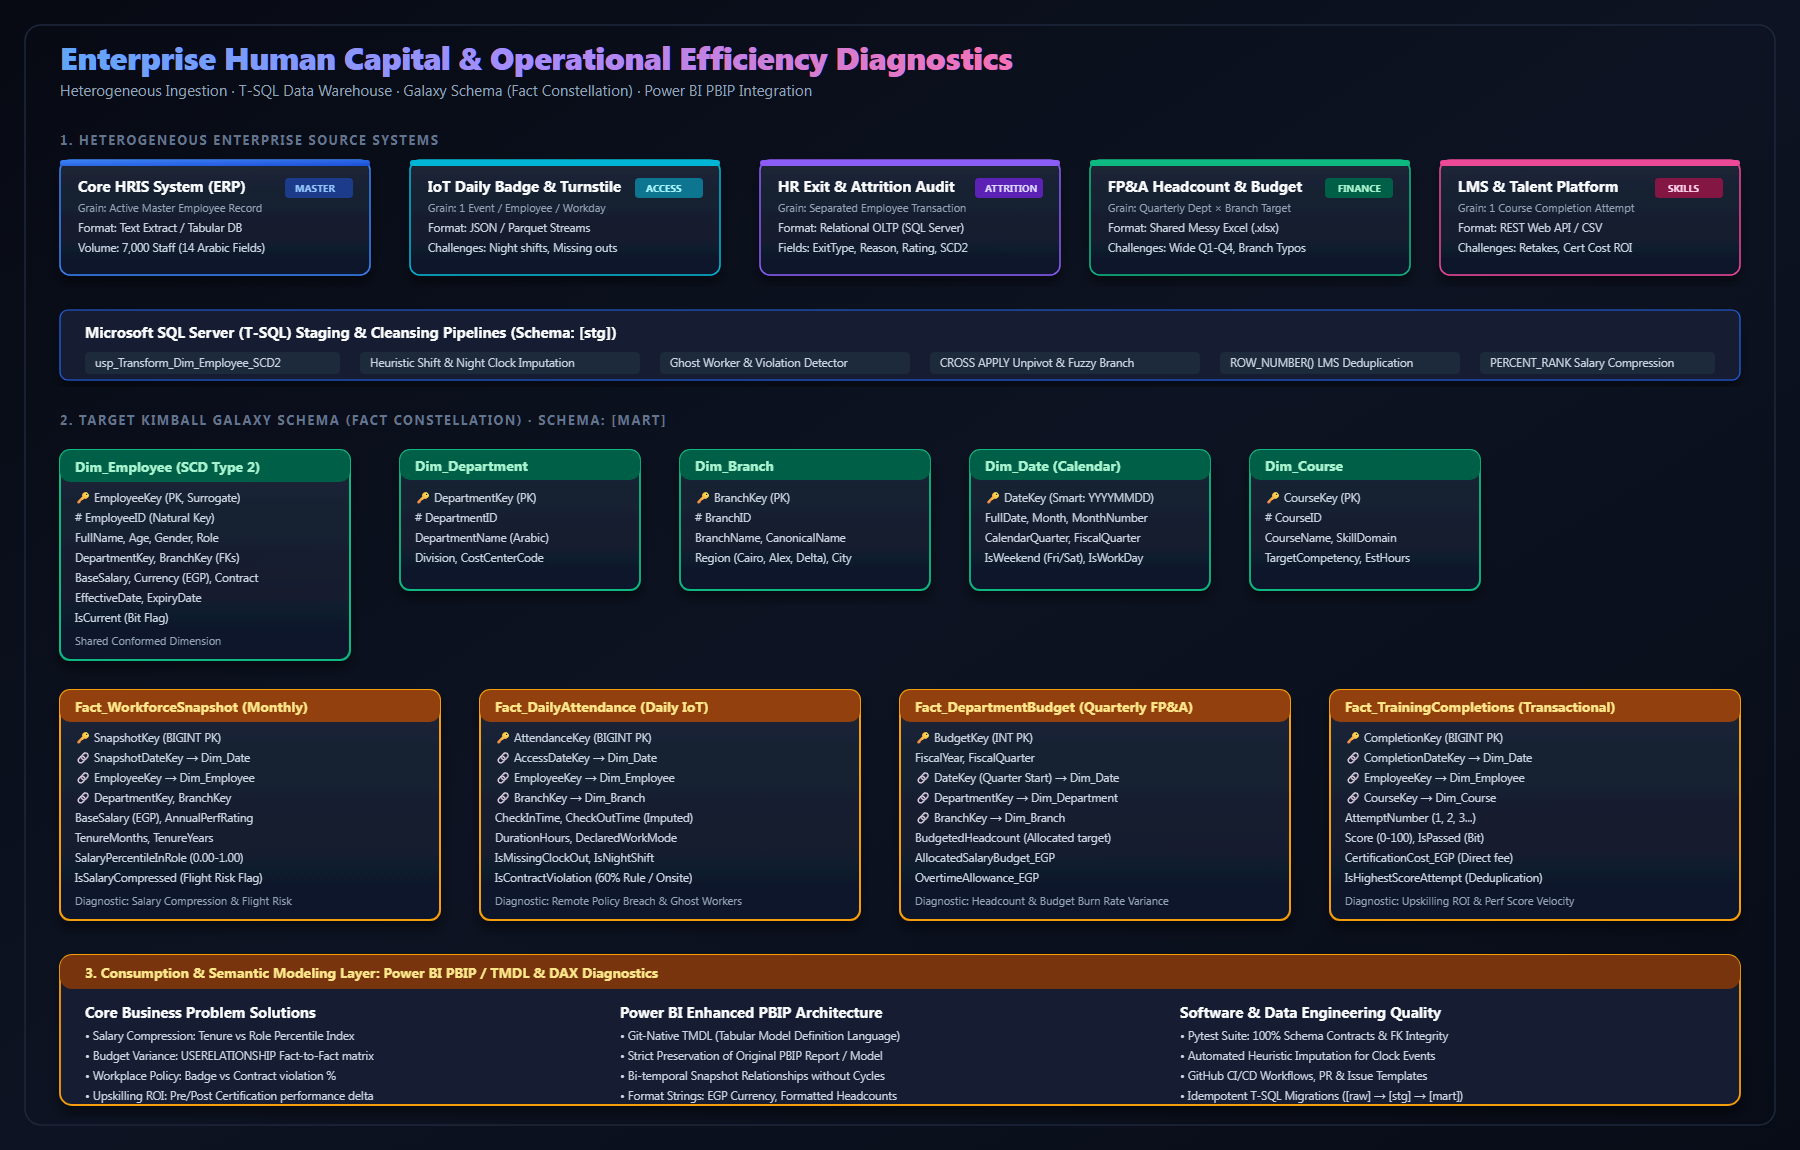
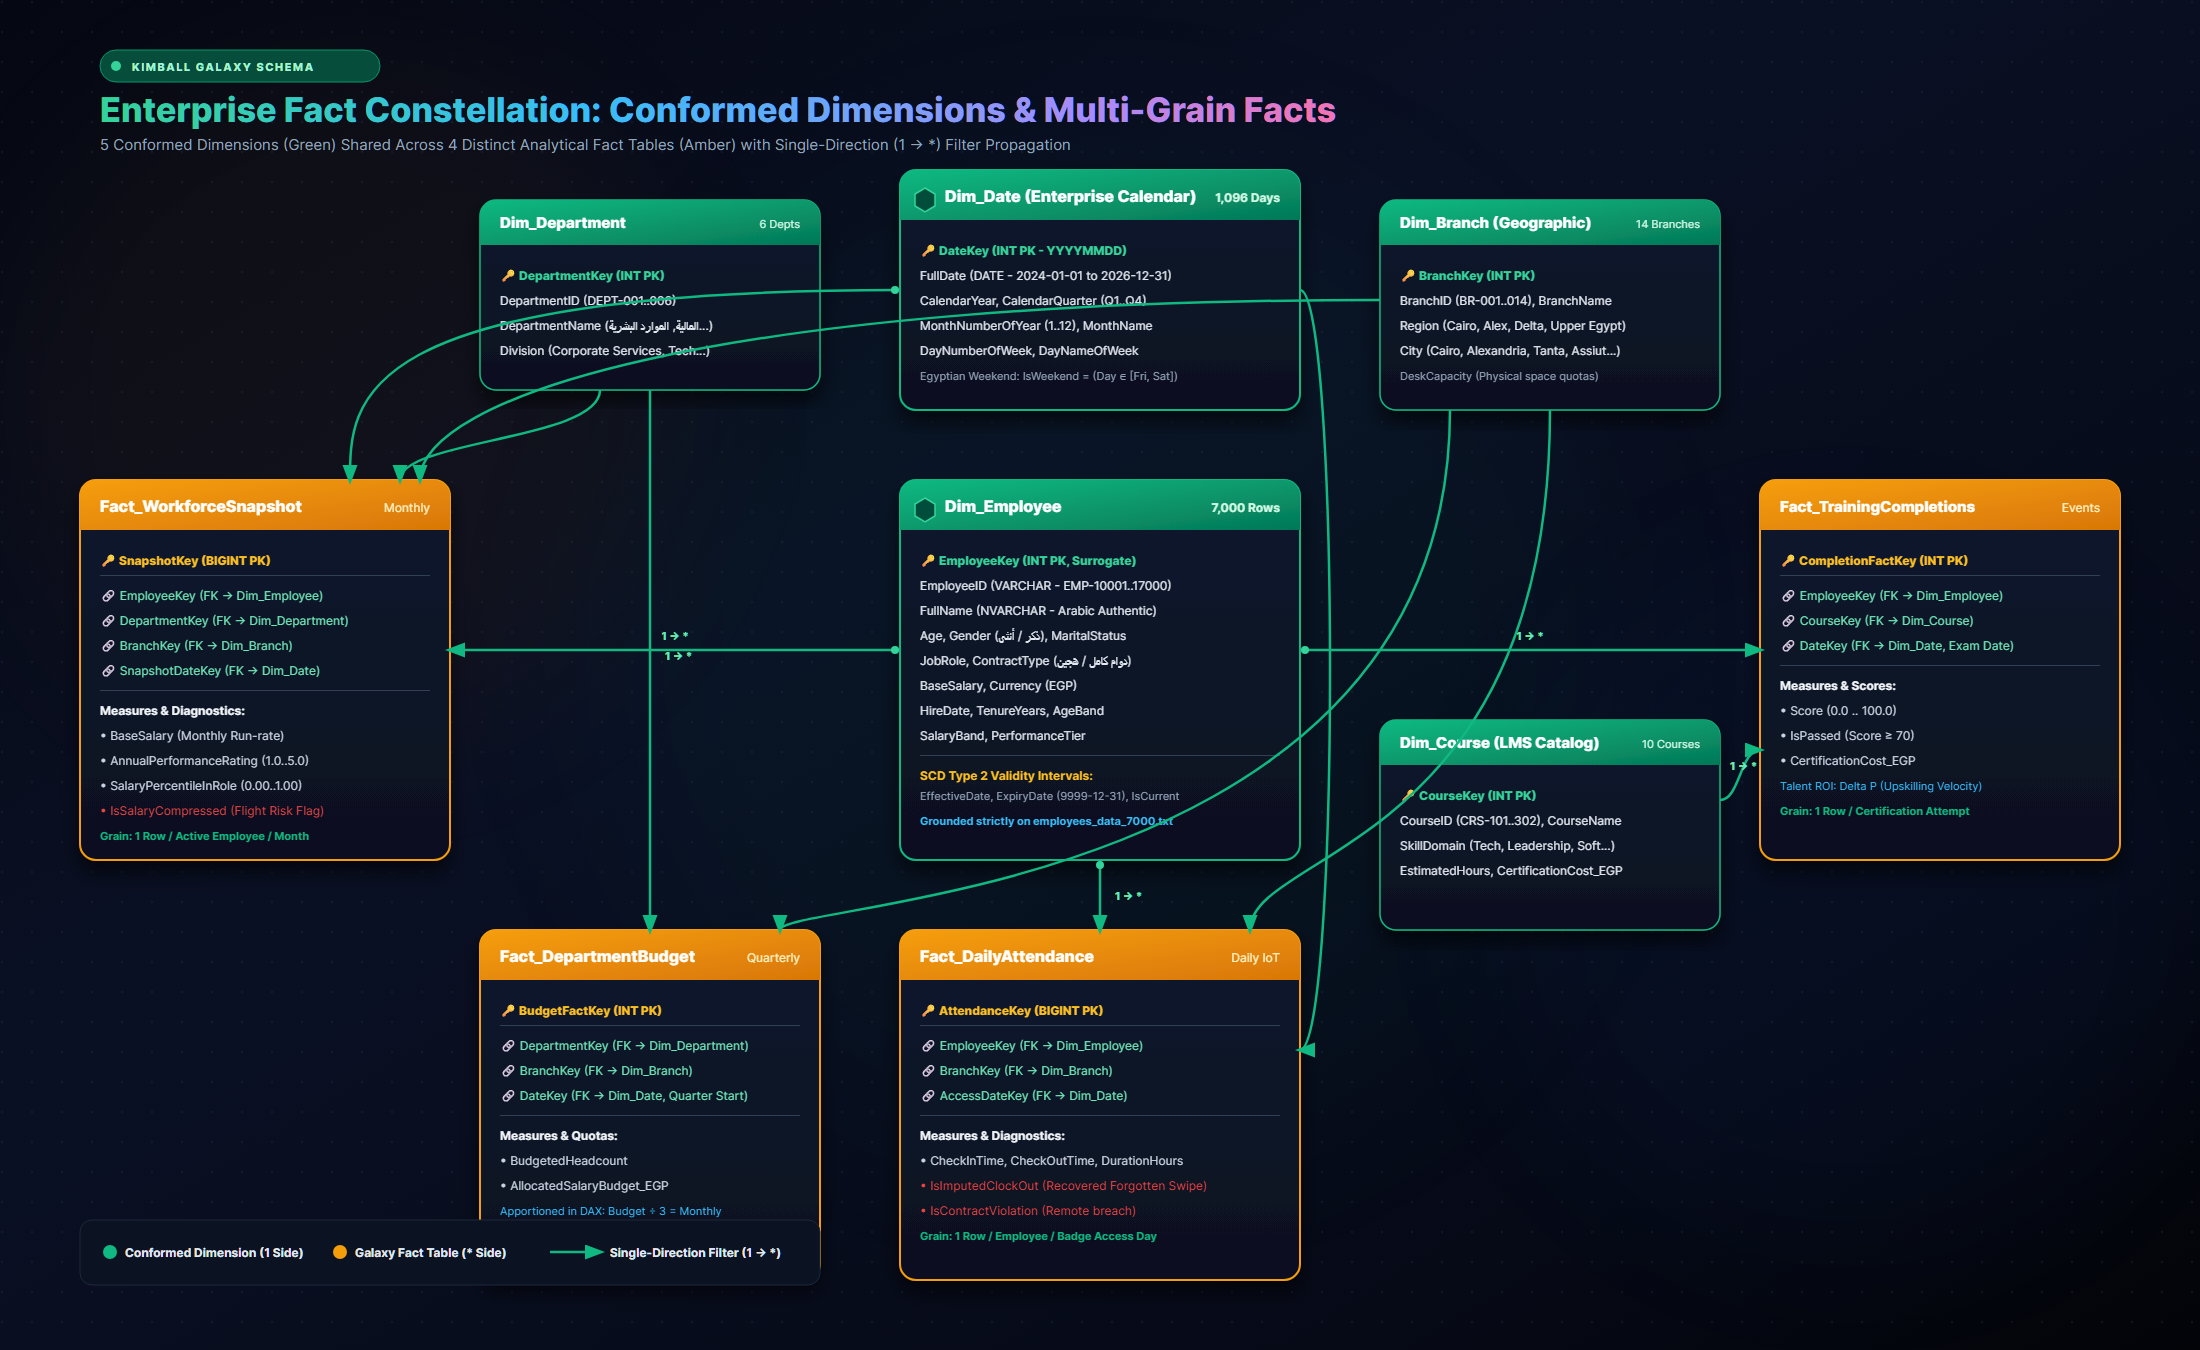
docs: align Dim_Branch conditional region rules with Power Query table values and add high-res PNG architecture assets

diff --git a/scripts/utils/convert_svg_to_png.py b/scripts/utils/convert_svg_to_png.py
@@ -1,0 +1,87 @@
+"""
+Utility: convert_svg_to_png.py
+Converts project SVG architecture diagrams to ultra high-quality PNGs
+using Chromium/Edge headless rendering engine with CairoSVG fallback.
+"""
+
+import os
+import shutil
+import subprocess
+import sys
+from pathlib import Path
+from PIL import Image
+
+PROJECT_ROOT = Path(__file__).resolve().parent.parent.parent
+DOCS_ASSETS = PROJECT_ROOT / "docs" / "assets"
+ARTIFACTS_DIR = Path(r"C:\Users\HELAL\.gemini\antigravity-ide\brain\caa94f56-4f88-4095-bb6c-cf7177e6c9bb")
+
+EDGE_PATHS = [
+    r"C:\Program Files (x86)\Microsoft\Edge\Application\msedge.exe",
+    r"C:\Program Files\Microsoft\Edge\Application\msedge.exe"
+]
+
+def get_browser_exe():
+    for p in EDGE_PATHS:
+        if os.path.exists(p):
+            return p
+    return None
+
+def convert_svg_to_png(svg_path: Path, png_path: Path, width: int = 2400, height: int = 1420):
+    svg_abs = str(svg_path.resolve())
+    png_abs = str(png_path.resolve())
+    browser = get_browser_exe()
+
+    if browser:
+        print(f"Rendering via Chromium/Edge: {svg_path.name} -> {png_path.name} ({width}x{height})")
+        cmd = [
+            browser,
+            "--headless=new",
+            "--disable-gpu",
+            "--hide-scrollbars",
+            f"--window-size={width},{height}",
+            f"--screenshot={png_abs}",
+            f"file:///{svg_abs}"
+        ]
+        result = subprocess.run(cmd, capture_output=True, text=True)
+        if result.returncode == 0 and png_path.exists():
+            print(f"[OK] Rendered with Edge Blink engine: {png_path} ({os.path.getsize(png_path)/1024:.1f} KB)")
+            return True
+        else:
+            print(f"[WARN] Edge headless failed with code {result.returncode}, falling back to CairoSVG...")
+
+    try:
+        import cairosvg
+        print(f"Rendering via CairoSVG: {svg_path.name} -> {png_path.name}")
+        cairosvg.svg2png(url=svg_abs, write_to=png_abs, scale=1.0)
+        print(f"[OK] Rendered with CairoSVG: {png_path} ({os.path.getsize(png_path)/1024:.1f} KB)")
+        return True
+    except Exception as e:
+        print(f"[ERROR] CairoSVG rendering failed: {e}")
+        return False
+
+def main():
+    svg_file = DOCS_ASSETS / "project_lifecycle_architecture.svg"
+    png_file = DOCS_ASSETS / "project_lifecycle_architecture.png"
+
+    if not svg_file.exists():
+        print(f"SVG not found: {svg_file}")
+        sys.exit(1)
+
+    success = convert_svg_to_png(svg_file, png_file, width=2400, height=1420)
+    if success:
+        # Also copy to artifacts directory for interactive display
+        if ARTIFACTS_DIR.exists():
+            dest_artifact = ARTIFACTS_DIR / "project_lifecycle_architecture.png"
+            shutil.copy(png_file, dest_artifact)
+            print(f"[OK] Copied to conversation artifacts: {dest_artifact}")
+
+        # Also convert enterprise galaxy architecture if available
+        galaxy_svg = DOCS_ASSETS / "enterprise_galaxy_architecture.svg"
+        galaxy_png = DOCS_ASSETS / "enterprise_galaxy_architecture.png"
+        if galaxy_svg.exists():
+            convert_svg_to_png(galaxy_svg, galaxy_png, width=2200, height=1350)
+            if ARTIFACTS_DIR.exists():
+                shutil.copy(galaxy_png, ARTIFACTS_DIR / "enterprise_galaxy_architecture.png")
+
+if __name__ == "__main__":
+    main()

diff --git a/docs/powerbi_implementation_guide.md b/docs/powerbi_implementation_guide.md
@@ -300,14 +300,41 @@ Open Power BI Desktop and click **Home > Transform Data** to launch Power Query 
 4. Go to **Add Column > Index Column > From 1**. Rename to `BranchKey`.
 5. Go to **Add Column > Custom Column**. Name it `BranchID` with expression:
    `"BR-" & Text.PadStart(Text.From([BranchKey]), 3, "0")`
-6. **Adding Geographic Metadata via Conditional Column GUI**:
-   * Go to **Add Column > Conditional Column**. Set column name to `Region`.
-   * Configure rules:
-     * If `الفرع` equals `فرع الإسكندرية - سموحة` then `Alexandria & North`
-     * Else If `الفرع` equals `فرع أسيوط` then `Upper Egypt`
-     * Else If `الفرع` equals `فرع المنصورة` then `Delta`
+6. **Adding Geographic Metadata (`Region`) via Conditional Column GUI**:
+   Your table contains exactly 14 distinct branches:
+   * **Alexandria**: `الإسكندرية - لوران`, `الإسكندرية - سموحة`
+   * **Delta & Canal Zone**: `الدقهلية - المنصورة`, `الغربية - طنطا`, `دمياط - دمياط الجديدة`, `بورسعيد - الشرق`
+   * **Upper Egypt**: `أسيوط - أسيوط الجديدة`
+   * **Greater Cairo (Cairo & Giza)**: `القاهرة - المعادي`, `القاهرة - التجمع الخامس`, `القاهرة - مصر الجديدة`, `القاهرة - القرية الذكية`, `الجيزة - 6 أكتوبر`, `الجيزة - الشيخ زايد`, `الجيزة - الدقي`
+
+   * Go to **Add Column > Conditional Column**.
+   * Set **New column name**: `Region`
+   * Set **Column Name**: `الفرع`
+   * Configure the dialog rules using either approach:
+
+     **Method A: Using "begins with" (Recommended - Fast & Clean)**:
+     * If `الفرع` **begins with** `الإسكندرية` then `Alexandria & North`
+     * Else If `الفرع` **begins with** `أسيوط` then `Upper Egypt`
+     * Else If `الفرع` **begins with** `الدقهلية` then `Delta`
+     * Else If `الفرع` **begins with** `الغربية` then `Delta`
+     * Else If `الفرع` **begins with** `دمياط` then `Delta`
+     * Else If `الفرع` **begins with** `بورسعيد` then `Canal Zone`
+     * Else `Greater Cairo` *(covers all 7 Cairo and Giza branches automatically)*
+
+     **Method B: Using exact "equals" matching your 14 rows**:
+     * If `الفرع` **equals** `الإسكندرية - لوران` then `Alexandria & North`
+     * Else If `الفرع` **equals** `الإسكندرية - سموحة` then `Alexandria & North`
+     * Else If `الفرع` **equals** `أسيوط - أسيوط الجديدة` then `Upper Egypt`
+     * Else If `الفرع` **equals** `الدقهلية - المنصورة` then `Delta`
+     * Else If `الفرع` **equals** `الغربية - طنطا` then `Delta`
+     * Else If `الفرع` **equals** `دمياط - دمياط الجديدة` then `Delta`
+     * Else If `الفرع` **equals** `بورسعيد - الشرق` then `Canal Zone`
      * Else `Greater Cairo`
-   * Click **OK**. Rename `الفرع` to `BranchName`.
+
+7. Click **OK**. Set the data type of `Region` to **Text**.
+8. Click the column header **`الفرع`** $\to$ right-click $\to$ select **Rename** $\to$ rename it to `BranchName`.
+9. *(Optional)* Add physical desk capacity for branch occupancy stress analytics:
+   * Go to **Add Column > Custom Column** $\to$ Name: `Capacity` $\to$ Formula: `250` $\to$ set type to **Whole Number (`123`)**.
 
 ---
 
